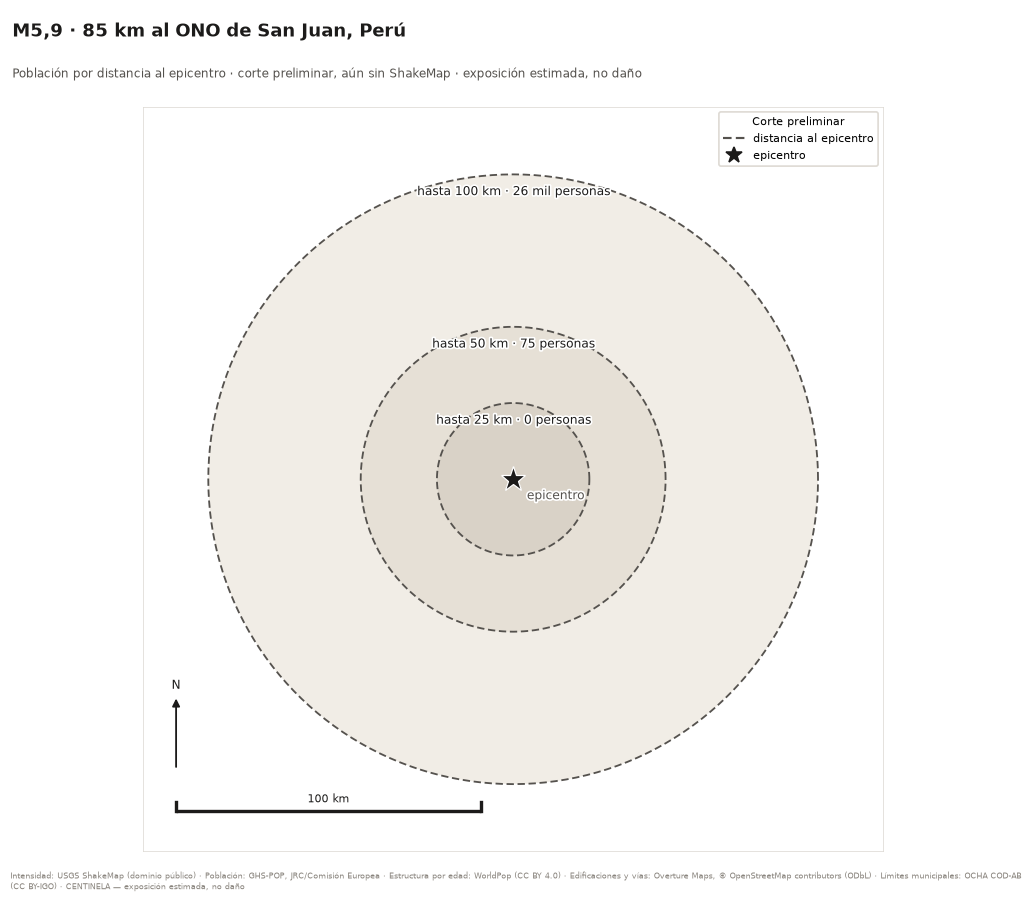
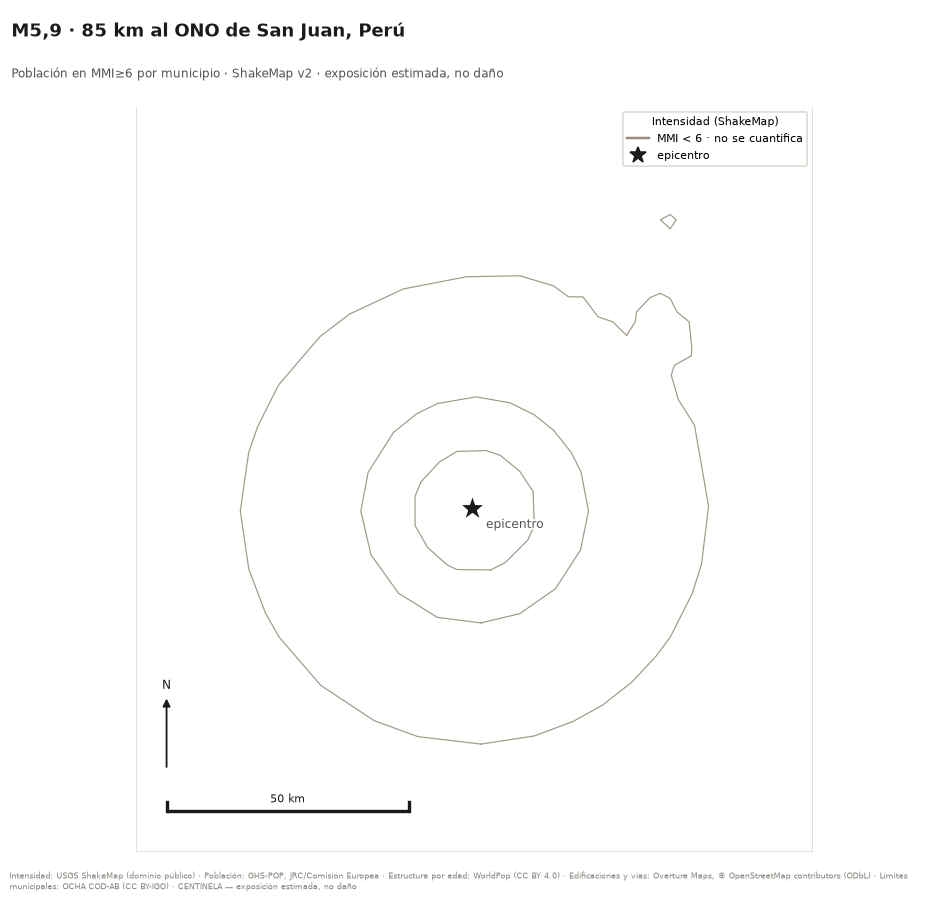
P3: reporte de us7000tyy8

diff --git a/reports/us7000tyy8/report.md b/reports/us7000tyy8/report.md
@@ -2,9 +2,25 @@
 
 **Evento USGS:** `us7000tyy8` · **Origen:** 2026-11-18T06:07:42Z UTC · **Profundidad:** 21,9 km
 
-> **Reporte preliminar sin ShakeMap.** El corte es por radios alrededor del epicentro, no por intensidad modelada. Se actualiza automáticamente en cuanto USGS publique el ShakeMap del evento.
+## Exposición estimada
 
-## Población por distancia al epicentro
+| Indicador | Estimado |
+|---|---:|
+| Población en MMI≥6 | el evento no llegó a esta banda |
+| Población en MMI≥7 | el evento no llegó a esta banda |
+| Población en MMI≥8 | el evento no llegó a esta banda |
+| Edificaciones en MMI≥6 | 0 |
+| Sedes de salud en MMI≥6 | 0 |
+| Sedes educativas en MMI≥6 | 0 |
+| Kilómetros de vía en MMI≥6 | 0 km |
+
+> **Todas las cifras en cero es un resultado, no un fallo.** El ShakeMap de este evento sí dibuja intensidad, pero no alcanza MMI≥6 sobre territorio habitado del país: la sacudida quedó mar adentro o sobre zona despoblada. El cálculo corrió entero.
+
+Las cifras de esta tabla van redondeadas a dos cifras significativas, que es la precisión que un modelo de exposición sostiene. Las exactas están en el CSV municipal y en `report.json`.
+
+### Población por distancia al epicentro
+
+Ninguna banda de intensidad alcanza población, así que la única cifra que dimensiona este evento es la distancia:
 
 | Radio desde el epicentro | Población |
 |---|---:|
@@ -18,16 +34,34 @@ Los radios **no son bandas de intensidad**. Aquí no hay modelo de sacudida, sol
 
 USGS no ha publicado el producto *Ground Failure* para este evento. La sección se omite; el reporte se re-emite automáticamente si aparece.
 
+## Referencia cruzada
+
+PAGER (USGS) estima para este evento una alerta **verde**. CENTINELA no estima víctimas; la cifra se incluye solo como contraste.
+
+Las dos cifras **no se tabulan igual** y no se pueden leer una contra otra: PAGER agrupa por MMI redondeado (su fila «7» es todo lo que cae entre 6,5 y 7,49) y CENTINELA usa bandas literales, donde MMI≥7 es MMI≥7. Puede además que no hablen del mismo ShakeMap: este reporte declara en «Procedencia» qué versión consumió, y PAGER pudo correr sobre otra versión o sobre otro producto del mismo sismo. El contraste banda a banda, hecho y comprobado para el sismo de San José del Palmar, está en `docs/PARA_INSTITUCIONES.md`.
+
 ## Incertidumbre y calidad
 
-Discrepancia entre GHS-POP y WorldPop: **no se calcula en un reporte preliminar**. El contraste se hace celda a celda dentro de las bandas de intensidad, y sin ShakeMap todavía no hay bandas que cortar. Aparecerá en cuanto el reporte se re-emita con el ShakeMap.
+Discrepancia entre GHS-POP y WorldPop: **no se pudo medir**. Ninguna celda dentro de las bandas publicadas tiene población de WorldPop con la que contrastar.
+
+- El epicentro está a 45 km de la población más cercana del país con la que se comparó. La sacudida no alcanzó territorio habitado.
+
+## Cambios frente a la versión anterior
+
+- ShakeMap: v0 → v2 (us)
+- Ninguna cifra publicada cambia frente a la versión anterior.
+
+## Descargas
+
+- [CSV por municipio](adm2.csv)
+- [Mapa PNG](mapa_general.png)
 
 ## Procedencia
 
-- ShakeMap consumido: **ninguno** (no publicado aún)
+- ShakeMap consumido: **v2** de `us`
 - Ground Failure consumido: **ninguno** (no publicado aún)
 - Manifiesto de exposición: [`per-v0.5`](https://github.com/sforero77/CENTINELA/blob/main/data/manifests/PER.yaml)
-- Pipeline: `0.1.0` · Generado: 2026-11-18T06:25:47Z
+- Pipeline: `0.1.0` · Generado: 2026-11-18T06:31:03Z
 
 ## Advertencias
 
